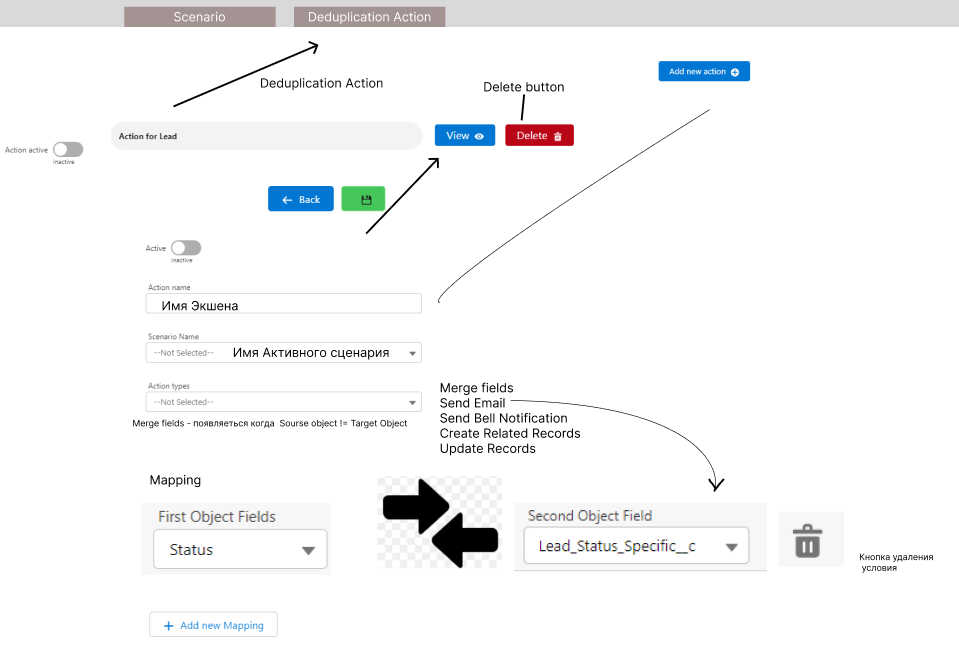
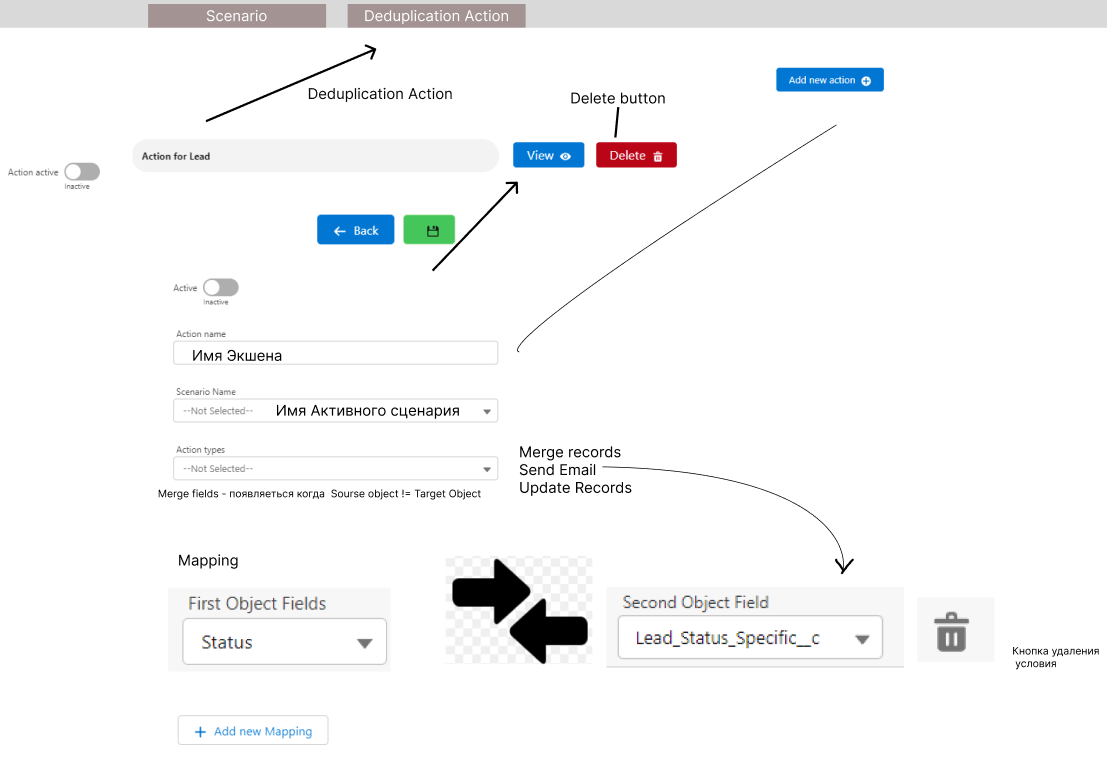
fix: presentation

diff --git a/index.html b/index.html
@@ -110,7 +110,7 @@
             Deduplication package allows you to customize your deduplication scenario, filter the results of deduplication.
           </p>
           <p style="font-size: 30px;">
-            The package has 5 custom actions that can be triggered if there are duplicates in the organization.
+            The package has 5 custom actions(for MVP-1 3 actions) and that can be triggered if there are duplicates in the organization.
           </p>
           <p style="font-size: 30px;">
             Has the ability to upload and download deduplication scenario.
@@ -137,9 +137,9 @@
             <ul>
               <li class="fragment">Merge Fields;</li>
               <li class="fragment">Send Email;</li>
-              <li class="fragment">Send Bell Notification;</li>
-              <li class="fragment">Create Related Record;</li>
               <li class="fragment">Update Record;</li>
+              <li class="fragment">Send Bell Notification MVP-2;</li>
+              <li class="fragment">Create Related Record MVP-2;</li>
             </ul>
           </section>
         </section>
@@ -343,7 +343,7 @@
                 margin-top: 130px;
               "
             >
-           Limits use package (MVP 1).
+           Limits use package logic Fuzzy MVP-1
             </p>
           </section>
           <section data-auto-animate>
@@ -356,7 +356,7 @@
                 margin-top: 130px;
               "
             >
-            Limits use package (MVP 1).
+            Limits use package logic Fuzzy MVP-1
             </p>
           </section>
         </section>
@@ -366,6 +366,18 @@
             <img src="./assets/package-limits.png" alt="package-limits">
           </p>
         </section>
+
+        <section>
+          <h5>What can be done in MPV-2.</h5>
+          <ul>
+            <li class="fragment" style="font-size: 28px">Adding a new search criterion(Fuzzy name, Fuzzy Phone and so on)</li>
+            <li class="fragment" style="font-size: 28px">Additional actions(Send Bell Notification, Create Related Record, and so on)</li>
+            <li class="fragment" style="font-size: 28px">Improvements UI and Stability package</li>
+            <li class="fragment" style="font-size: 28px">Node.js server - will collect all the records in the batch and send them to the service, where they will be processed and the result will be sent with duplicates;</li>
+            <li class="fragment" style="font-size: 28px">Node.js - General logging system of errors;</li>
+            <li class="fragment" style="font-size: 28px">Heroku - will host the server; <img src="./assets/heroky.png" width="850px" height="310px"> </li>
+          </ul>
+        </section> 
 
         <section>
           <section data-auto-animate>
@@ -378,7 +390,7 @@
                 margin-top: 130px;
               "
             >
-           Limits use package (MVP 2).
+           Limits use package logic Fuzzy MVP-2
             </p>
           </section>
           <section data-auto-animate>
@@ -391,17 +403,9 @@
                 margin-top: 130px;
               "
             >
-            Limits use package (MVP 2).
+            Limits use package logic Fuzzy MVP-2
             </p>
           </section>
-        </section>
-
-        <section>
-          <h5>Requirements to MPV 2.</h5>
-          <ul>
-            <li class="fragment">Node.js server - will collect all the records in the batch and send them to the Node.JS service, where they will be processed and the result will be sent with duplicates;</li>
-            <li class="fragment">Heroku - will host the server; <img src="./assets/heroky.png" > </li>
-          </ul>
         </section>
 
         <section>
